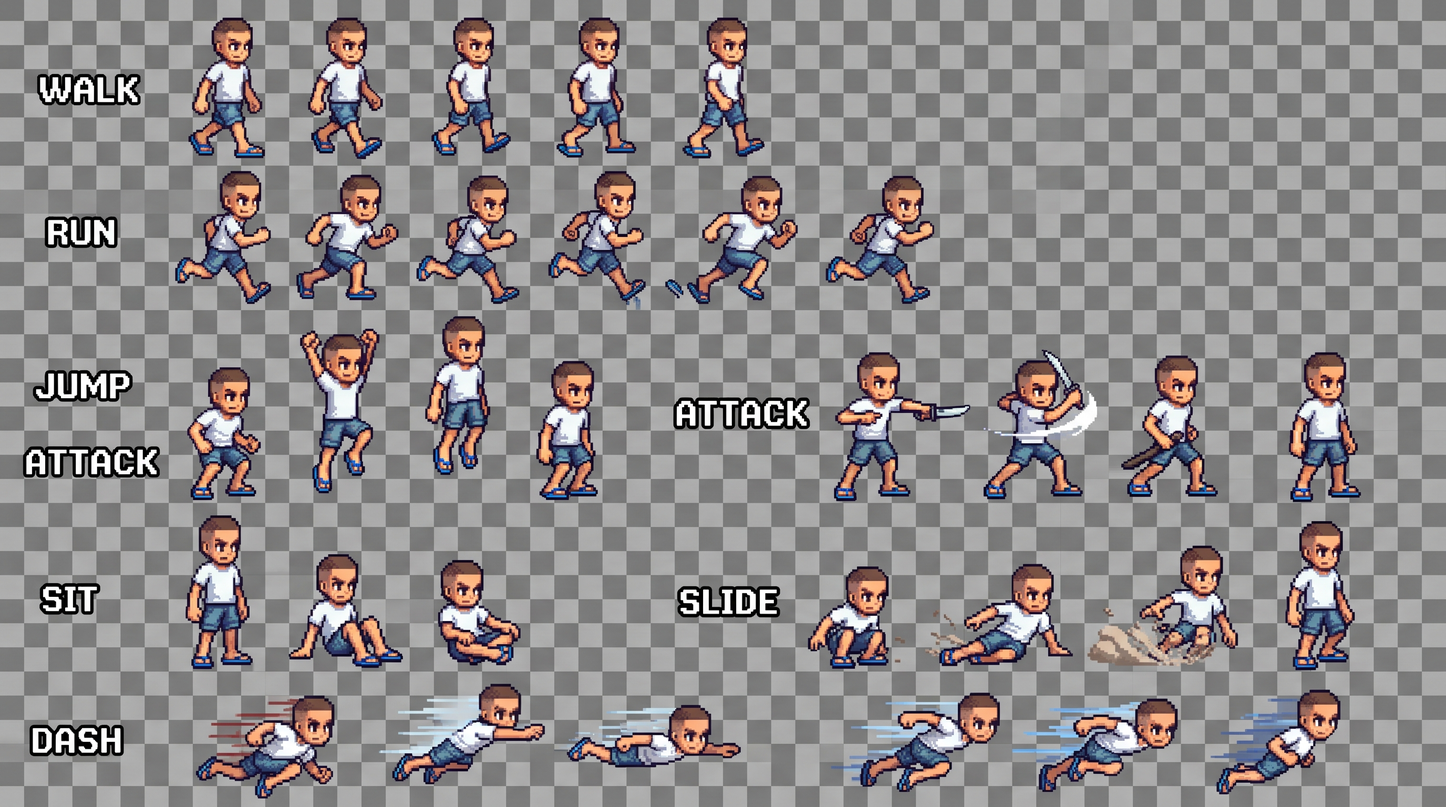
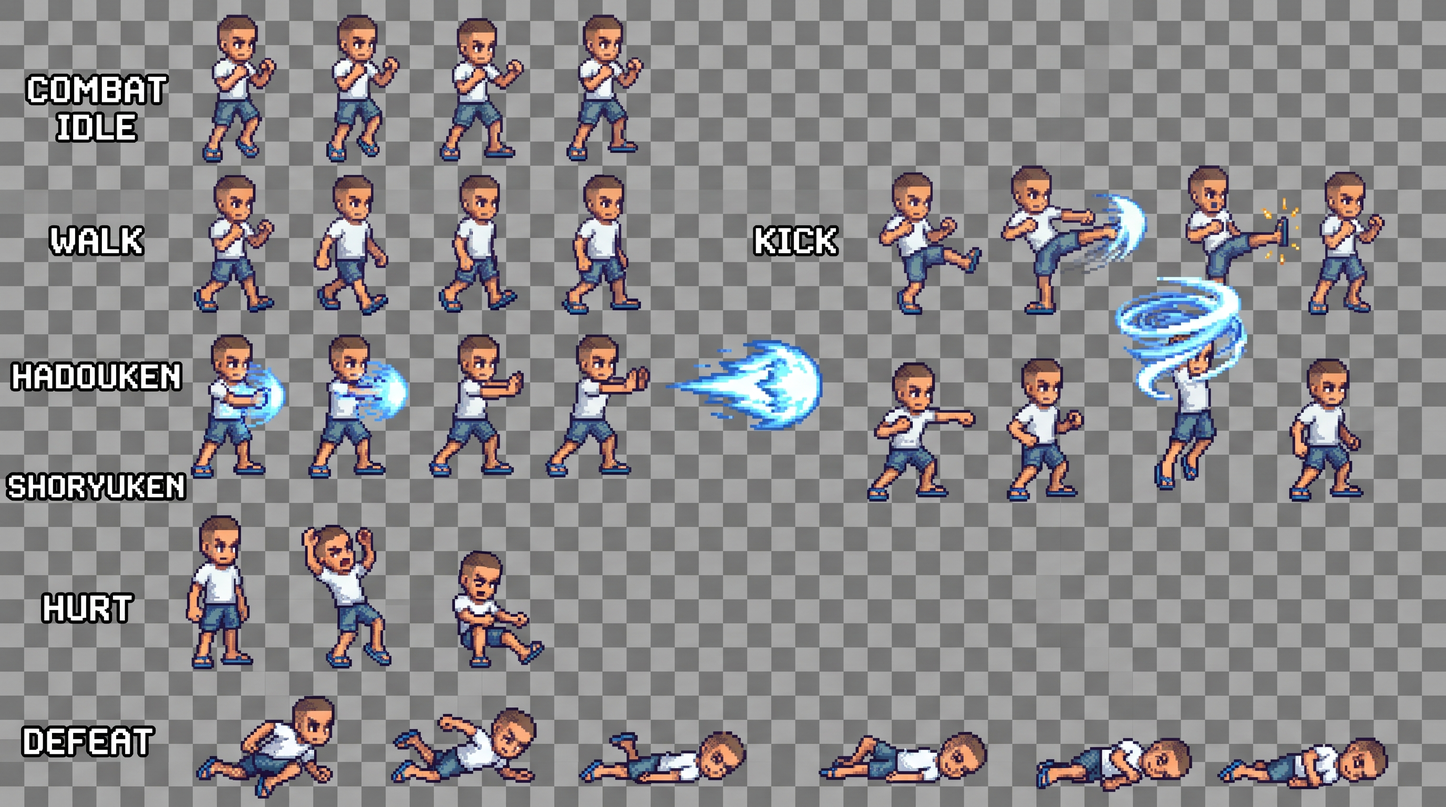
Add Juan special attacks and retreat guard

diff --git a/game.js b/game.js
@@ -16,15 +16,25 @@ const OPPONENTS = [
 const HERO = { id: "hero_0", size: 1.21, body: 25, speed: 263 };
 const ROUND_SECONDS = 60;
 const FRAME = { width: 504, height: 201, x: 156, y: 192, scale: 1.5 };
-const POSE = { idle: 0, move: 1, light: 2, heavy: 3, hurt: 4, down: 5, jump: 6, guard: 7 };
+// const POSE = { idle: 0, move: 1, light: 2, heavy: 3, hurt: 4, down: 5, jump: 6, guard: 7 };
+//JT-2026/11/19 - map the taller hero frames and special attack art
+const HERO_FRAME = { ...FRAME, height: 234, y: 225 };
+const POSE = { idle: 0, move: 1, light: 2, heavy: 3, hurt: 4, down: 5, jump: 6, hadouken: 7, shoryuken: 8 };
+const FIREBALL = { row: 9, speed: 540, lifetime: 1.4, radius: 38, elevation: 65, scale: .86 };
 const MOVES = {
   light: { duration: .35, impact: .15, damage: 14, reach: 82, push: 158, stun: .27 },
   heavy: { duration: .61, impact: .29, damage: 23, reach: 107, push: 260, stun: .34 },
+  //JT-2026/11/19 - set the timing and damage of juan's special attacks
+  hadouken: { duration: .72, impact: .29, damage: 19, reach: 0, push: 185, stun: .25 },
+  shoryuken: { duration: .8, impact: .16, damage: 26, reach: 89, push: 246, stun: .34 },
 };
 const KEYS = {
   ArrowLeft: "left", KeyA: "left", ArrowRight: "right", KeyD: "right",
-  ArrowUp: "jump", KeyW: "jump", ArrowDown: "guard", KeyS: "guard",
-  KeyJ: "light", KeyK: "heavy",
+  // ArrowUp: "jump", KeyW: "jump", ArrowDown: "guard", KeyS: "guard",
+  // KeyJ: "light", KeyK: "heavy",
+  //JT-2026/11/19 - replace the guard key with two special attack bindings
+  ArrowUp: "jump", KeyW: "jump",
+  KeyJ: "light", KeyK: "heavy", KeyL: "hadouken", KeyI: "shoryuken",
 };
 
 //JT-2026/11/19 - connect the arcade ui and initialize the first matchup
@@ -133,6 +143,8 @@ function resetRound() {
   game.decision = .5;
   game.enemyGuard = 0;
   game.effects = [];
+  //JT-2026/11/19 - clear the fireball before starting another round
+  game.projectile = null;
   game.winner = null;
   clearInputs();
   ui.counter.textContent = `LEVEL ${levelNumber(game.level + 1)} / ${levelNumber(OPPONENTS.length)}`;
@@ -155,6 +167,8 @@ function resizeArena() {
     fighter.x = clamp(fighter.x * positionScale, fighter.edge, world - fighter.edge);
   }
   game.effects.forEach(effect => { effect.x *= positionScale; });
+  //JT-2026/11/19 - keep a fireball aligned with the resized arena
+  if (game.projectile) game.projectile.x *= positionScale;
   view.world = world;
   view.width = width;
   view.height = height;
@@ -355,22 +369,44 @@ function updateFight(dt) {
   game.seconds = Math.max(0, game.seconds - dt);
   showTimer();
   const playerMove = Number(hasInput("right")) - Number(hasInput("left"));
-  player.guard = !player.attack && !player.stun && !player.y && hasInput("guard");
+  // player.guard = !player.attack && !player.stun && !player.y && hasInput("guard");
+  // if (canAct(player)) {
+  //   if (pressed.has("jump") && !player.y && !player.velocity) player.velocity = 473;
+  //   if (pressed.has("heavy")) attack(player, "heavy");
+  //   else if (pressed.has("light")) attack(player, "light");
+  // }
+  //JT-2026/11/19 - start specials from the ground and let retreating juan keep moving
+  player.guard = false;
   if (canAct(player)) {
-    if (pressed.has("jump") && !player.y && !player.velocity) player.velocity = 473;
-    if (pressed.has("heavy")) attack(player, "heavy");
-    else if (pressed.has("light")) attack(player, "light");
+    const grounded = !player.y && !player.velocity;
+    if (grounded && pressed.has("shoryuken")) {
+      attack(player, "shoryuken");
+    } else if (grounded && !game.projectile && pressed.has("hadouken")) {
+      attack(player, "hadouken");
+    } else {
+      if (grounded && pressed.has("jump")) player.velocity = 473;
+      if (pressed.has("heavy")) attack(player, "heavy");
+      else if (pressed.has("light")) attack(player, "light");
+    }
   }
   pressed.clear();
   const enemyMove = chooseEnemyMove(dt);
 
+  //JT-2026/11/19 - activate guard only when juan actually travels away from the opponent
+  const playerStart = player.x;
+  const retreating = (enemy.x - playerStart) * playerMove < 0;
   moveFighter(player, enemy, playerMove, dt);
+  const steppedBack = retreating && player.moving && (player.x - playerStart) * playerMove > 0;
   moveFighter(enemy, player, enemyMove, dt);
   separateFighters();
+  player.guard = steppedBack && (player.x - playerStart) * playerMove > 0 && (enemy.x - player.x) * playerMove < 0;
+
   const playerHit = hitFrom(player, enemy, dt);
   const enemyHit = hitFrom(enemy, player, dt);
   if (playerHit) applyHit(enemy, player, playerHit, ui.enemyHealth);
   if (enemyHit) applyHit(player, enemy, enemyHit, ui.playerHealth);
+  //JT-2026/11/19 - resolve the fireball before judging the round
+  advanceProjectile(dt);
   updateEffects(dt);
 
   if (!player.health || !enemy.health || game.seconds <= 0) finishRound();
@@ -457,12 +493,32 @@ function hitFrom(attacker, target, dt) {
   if (action.elapsed >= action.duration) attacker.attack = null;
   if (action.spent || action.elapsed < action.impact) return null;
   action.spent = true;
+  //JT-2026/11/19 - release the fireball or launch juan when a special reaches its strike frame
+  if (action.kind === "hadouken") {
+    game.projectile = {
+      x: attacker.x + (attacker.profile.body + 17) * attacker.direction,
+      y: attacker.y,
+      direction: attacker.direction,
+      remaining: FIREBALL.lifetime,
+      action,
+    };
+    tone("swing");
+    return null;
+  }
+  if (action.kind === "shoryuken") attacker.velocity = 406;
+
   const distance = (target.x - attacker.x) * attacker.direction;
   return distance >= 0 && distance <= action.reach && Math.abs(attacker.y - target.y) <= 59 ? action : null;
 }
 
 //JT-2026/11/19 - apply damage, hit stun, and guard feedback
 function applyHit(target, attacker, action, meter) {
+  //JT-2026/11/19 - block all damage and recoil while juan is retreating
+  if (target === game.player && target.guard) {
+    sparks((target.x + attacker.x) / 2, 70 + Math.max(attacker.y, target.y), true);
+    tone("guard");
+    return;
+  }
   const blocked = target.guard && (attacker.x - target.x) * target.direction >= 0;
   target.health = Math.max(0, target.health - (blocked ? Math.floor(action.damage * .21) : action.damage));
   target.stun = blocked ? .1 : action.stun;
@@ -497,6 +553,9 @@ function finishRound() {
   if (!player.health) player.down = .01;
   if (!enemy.health) enemy.down = .01;
   game.phase = .82;
+  //JT-2026/11/19 - stop the fireball and retreat guard when the round ends
+  game.projectile = null;
+  player.guard = false;
   clearInputs();
   setMode("round-end");
   ui.announcement.textContent = knockout ? "K.O.!" : "TIME!";
@@ -546,6 +605,8 @@ function paint() {
   const fighters = player.x <= enemy.x ? [player, enemy] : [enemy, player];
   fighters.forEach(drawShadow);
   fighters.forEach(drawFighter);
+  //JT-2026/11/19 - draw the active fireball with the street arena
+  if (game.projectile) drawProjectile(game.projectile);
   for (const effect of game.effects) drawSpark(effect);
   placeNameplates();
 }
@@ -566,7 +627,10 @@ function drawFighter(fighter) {
   const img = atlases.get(fighter.profile.id)?.img;
   if (!img?.complete || !img.naturalWidth) return;
   const [row, column] = getPose(fighter);
-  const size = view.scale * fighter.profile.size / FRAME.scale;
+  // const size = view.scale * fighter.profile.size / FRAME.scale;
+  //JT-2026/11/19 - draw juan from his expanded atlas without shifting his ground position
+  const frame = fighter === game.player ? HERO_FRAME : FRAME;
+  const size = view.scale * fighter.profile.size / frame.scale;
   context.save();
   const x = Math.round(fighter.x * view.scale);
   const y = Math.round(view.floor - fighter.y * view.scale);
@@ -574,8 +638,11 @@ function drawFighter(fighter) {
   context.scale(fighter.direction, 1);
   context.imageSmoothingEnabled = true;
   if (fighter.guard && !fighter.down) context.filter = "brightness(1.14)";
-  context.drawImage(img, column * FRAME.width, row * FRAME.height, FRAME.width, FRAME.height,
-    -FRAME.x * size, -FRAME.y * size, FRAME.width * size, FRAME.height * size);
+  // context.drawImage(img, column * FRAME.width, row * FRAME.height, FRAME.width, FRAME.height,
+  //   -FRAME.x * size, -FRAME.y * size, FRAME.width * size, FRAME.height * size);
+  //JT-2026/11/19 - sample each fighter using its atlas frame dimensions
+  context.drawImage(img, column * frame.width, row * frame.height, frame.width, frame.height,
+    -frame.x * size, -frame.y * size, frame.width * size, frame.height * size);
   context.restore();
 }
 
@@ -590,11 +657,18 @@ function getPose(fighter) {
     // The final gasoline frame contains the flame, so show it on impact.
     return [POSE[kind], fighter.profile.id === "gasoline_0" && column >= 2 ? 3 : column];
   }
-  if (fighter.guard) return [hero ? POSE.guard : POSE.hurt, 0];
+  // if (fighter.guard) return [hero ? POSE.guard : POSE.hurt, 0];
+  //JT-2026/11/19 - keep the opponent guard pose and let juan animate his retreat
+  if (!hero && fighter.guard) return [POSE.hurt, 0];
   if (hero && (fighter.y || fighter.velocity)) {
     return [POSE.jump, fighter.velocity > 160 ? 1 : fighter.velocity > -155 ? 2 : 3];
   }
-  if (fighter.moving) return [POSE.move, Math.floor(game.age * 11) % 4];
+  // if (fighter.moving) return [POSE.move, Math.floor(game.age * 11) % 4];
+  //JT-2026/11/19 - play juan's walk frames in reverse when he backs away
+  if (fighter.moving) {
+    const column = Math.floor(game.age * 11) % 4;
+    return [POSE.move, hero && fighter.guard ? 3 - column : column];
+  }
   return [POSE.idle, reduceMotion.matches ? 0 : Math.floor(game.age * 3.7) % 4];
 }
 
@@ -694,4 +768,36 @@ function tone(kind) {
 //JT-2026/11/19 - constrain positions and timer values to their valid bounds
 function clamp(value, min, max) {
   return Math.max(min, Math.min(value, max));
+}
+
+//JT-2026/11/19 - move the fireball until it hits the opponent or leaves the arena
+function advanceProjectile(dt) {
+  const shot = game.projectile;
+  if (!shot) return;
+  shot.remaining -= dt;
+  shot.x += shot.direction * FIREBALL.speed * dt;
+  const enemy = game.enemy;
+  const hitsEnemy = enemy.health > 0 && Math.abs(enemy.x - shot.x) <= enemy.profile.body + FIREBALL.radius
+    && Math.abs(enemy.y - shot.y) <= FIREBALL.elevation - 10;
+  if (hitsEnemy) {
+    const source = { x: enemy.x - shot.direction * FIREBALL.radius, y: shot.y, direction: shot.direction };
+    applyHit(enemy, source, shot.action, ui.enemyHealth);
+    game.projectile = null;
+  } else if (shot.remaining <= 0 || shot.x < -FIREBALL.radius || shot.x > view.world + FIREBALL.radius) {
+    game.projectile = null;
+  }
+}
+
+//JT-2026/11/19 - draw the supplied fireball sprite in its travel direction
+function drawProjectile(shot) {
+  const img = atlases.get(HERO.id)?.img;
+  if (!img?.complete || !img.naturalWidth) return;
+  const { width, height, x, scale } = HERO_FRAME;
+  const size = view.scale * FIREBALL.scale / scale;
+  context.save();
+  context.translate(shot.x * view.scale, view.floor - (shot.y + FIREBALL.elevation) * view.scale);
+  context.scale(shot.direction, 1);
+  context.drawImage(img, 0, FIREBALL.row * height, width, height,
+    -x * size, -height * size / 2, width * size, height * size);
+  context.restore();
 }

diff --git a/index.html b/index.html
@@ -82,11 +82,16 @@
     <section class="control-deck" aria-label="Game controls">
       <h2>Controls</h2>
       <ul class="key-guide">
-        <li><kbd>←</kbd><kbd>→</kbd><span>Move</span></li>
+        <!-- <li><kbd>←</kbd><kbd>→</kbd><span>Move</span></li> -->
+        <!-- <li><kbd>↓</kbd><span>Guard</span></li> -->
+        <!-- JT-2026/11/19 - show how movement activates guard -->
+        <li><kbd>←</kbd><kbd>→</kbd><span>Move · back to guard</span></li>
         <li><kbd>↑</kbd><span>Jump</span></li>
-        <li><kbd>↓</kbd><span>Guard</span></li>
         <li><kbd>J</kbd><span>Punch</span></li>
         <li><kbd>K</kbd><span>Kick</span></li>
+        <!-- JT-2026/11/19 - list the special attack keys -->
+        <li><kbd>L</kbd><span>Hadouken</span></li>
+        <li><kbd>I</kbd><span>Shoryuken</span></li>
       </ul>
       <span class="pause-guide"><kbd>Esc</kbd> Pause</span>
       <div class="touch-controls" id="touch-controls" aria-label="Touch controls">
@@ -96,10 +101,15 @@
           <button type="button" data-input="jump" aria-label="Jump">↑</button>
         </div>
         <div class="touch-group">
-          <button type="button" data-input="guard">Guard</button>
+          <!-- <button type="button" data-input="guard">Guard</button> -->
+          <!-- JT-2026/11/19 - put both specials on the touch attack pad -->
           <button type="button" data-input="light">Punch</button>
           <button type="button" data-input="heavy">Kick</button>
+          <button type="button" data-input="hadouken">Hadouken</button>
+          <button type="button" data-input="shoryuken">Shoryuken</button>
         </div>
+        <!-- JT-2026/11/19 - explain guard on touch screens -->
+        <p class="touch-hint">Move away from your opponent to guard.</p>
       </div>
     </section>
 

diff --git a/styles.css b/styles.css
@@ -399,8 +399,19 @@ kbd {
 }
 
 @media (pointer: coarse), (max-width: 680px) {
-  .touch-controls, .touch-group { display: flex; justify-content: space-between; gap: 5px; }
-  .touch-controls { width: 100%; }
+  /* .touch-controls, .touch-group { display: flex; justify-content: space-between; gap: 5px; } */
+  /* .touch-controls { width: 100%; } */
+  /* JT-2026/11/19 - fit the direction and four attack buttons on narrow screens */
+  .touch-controls {
+    display: grid;
+    grid-template-columns: auto auto;
+    justify-content: space-between;
+    gap: 8px;
+    width: 100%;
+  }
+  .touch-group { display: grid; grid-template-columns: repeat(2, minmax(43px, 1fr)); gap: 5px; }
+  .touch-group button[data-input="jump"] { grid-area: 1 / 1 / 2 / 3; justify-self: center; }
+  .touch-hint { grid-column: 1 / -1; margin: 0; color: var(--muted); font-size: .82rem; }
   .touch-controls button {
     min-width: 43px;
     min-height: 43px;
@@ -413,7 +424,11 @@ kbd {
     user-select: none;
     font: 750 .74rem/1 var(--mono);
   }
-  .touch-controls button[data-input="light"], .touch-controls button[data-input="heavy"] { color: #ffe091; }
+  /* .touch-controls button[data-input="light"], .touch-controls button[data-input="heavy"] { color: #ffe091; } */
+  /* JT-2026/11/19 - color the special buttons like the other attacks */
+  .touch-controls button:is([data-input="light"], [data-input="heavy"], [data-input="hadouken"], [data-input="shoryuken"]) {
+    color: #ffe091;
+  }
   .touch-controls button.is-held { background: #f8ce53; color: #20170b; }
 }
 

diff --git a/README.md b/README.md
@@ -11,14 +11,20 @@ Each round lasts up to 60 seconds. Win by knockout or by finishing the round wit
 
 ## Controls
 
+<!-- | Guard | `↓` or `S` | -->
+<!-- JT-2026/11/19 - document the retreat guard and both special attacks -->
 | Action | Keyboard |
 | --- | --- |
 | Move left or right | `←` / `→` or `A` / `D` |
 | Jump | `↑` or `W` |
-| Guard | `↓` or `S` |
+| Guard | Move away from your opponent |
 | Punch | `J` |
 | Kick | `K` |
+| Hadouken | `L` |
+| Shoryuken | `I` |
 | Pause or resume | `Esc` |
+
+Juan takes zero damage while actively moving away from his opponent. Leave room to step back. Use Hadouken and Shoryuken while on the ground.
 
 On a phone, use the touch controls below the arena.
 
